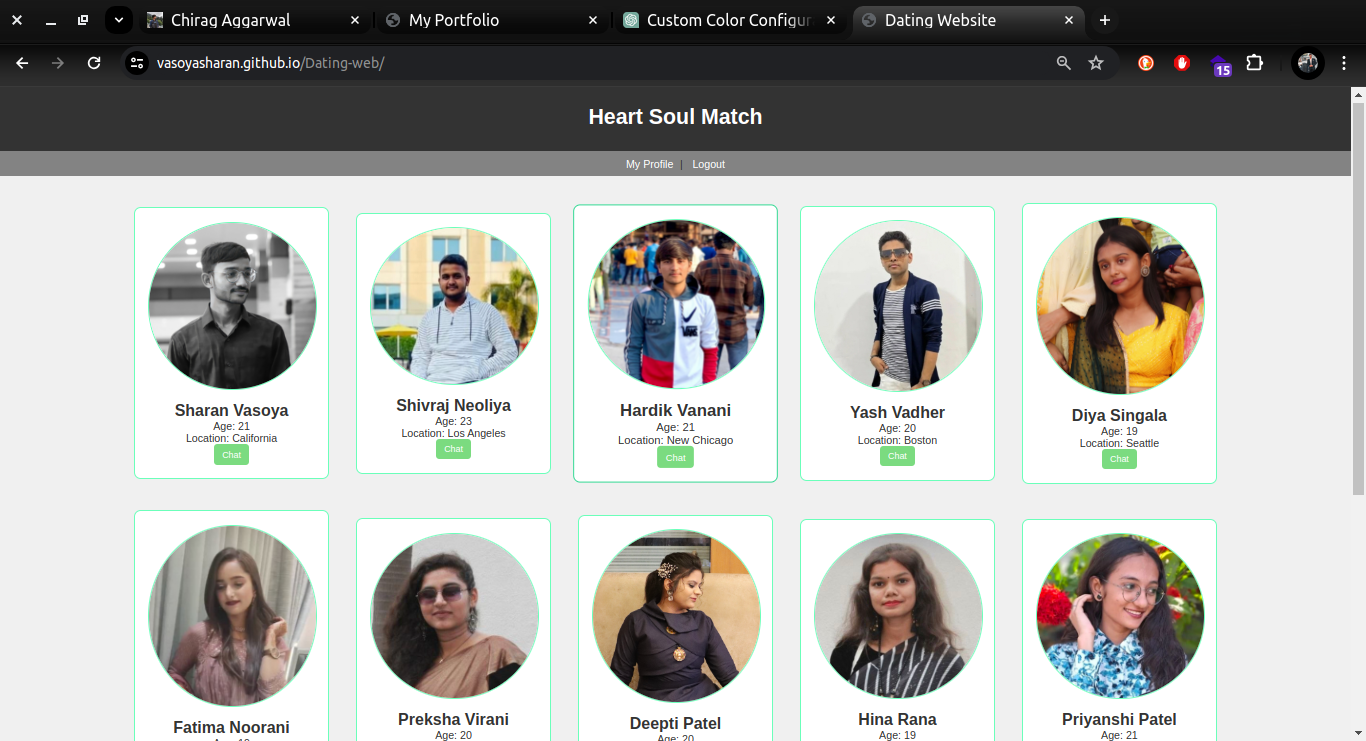
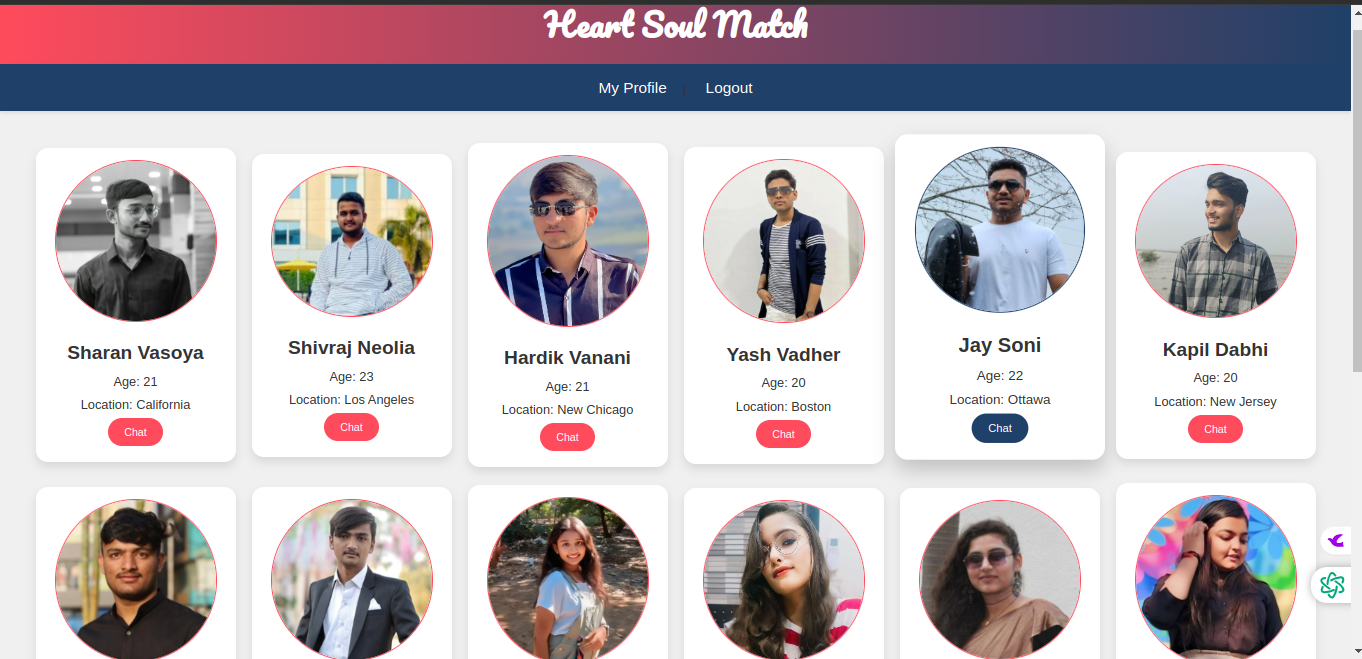
Heart soul image and name changed

diff --git a/index.html b/index.html
@@ -177,7 +177,7 @@
         <div class="project-card">
             <img class="project-img" src="images/DateIt.png" alt="Project 4" />
             <div class="project-info">
-                <h3 class="project-title">Date-It</h3>
+                <h3 class="project-title">Heart Soul Match</h3>
                 <a href="https://vasoyasharan.github.io/Dating-web/" class="view-project-btn">View Project</a>
             </div>
         </div>
